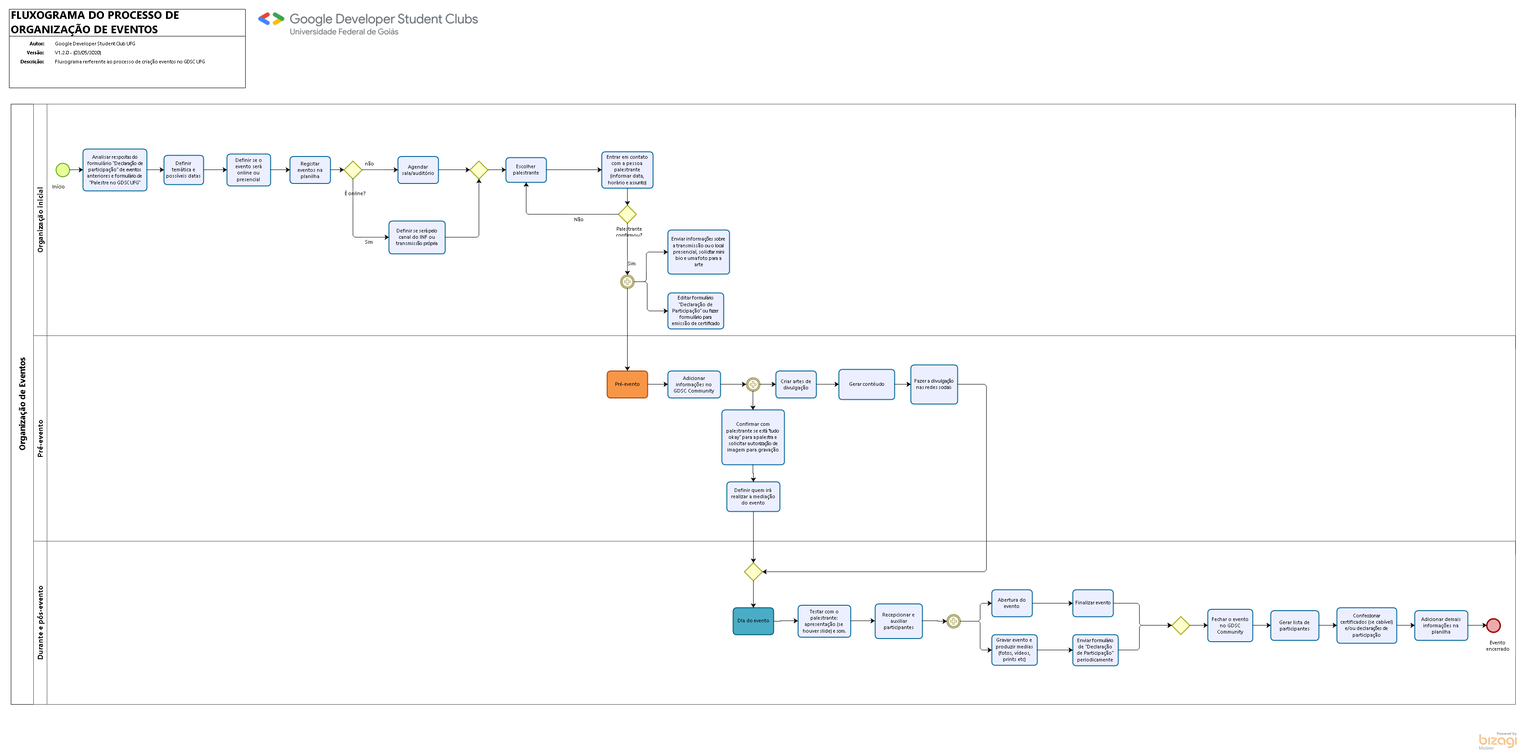
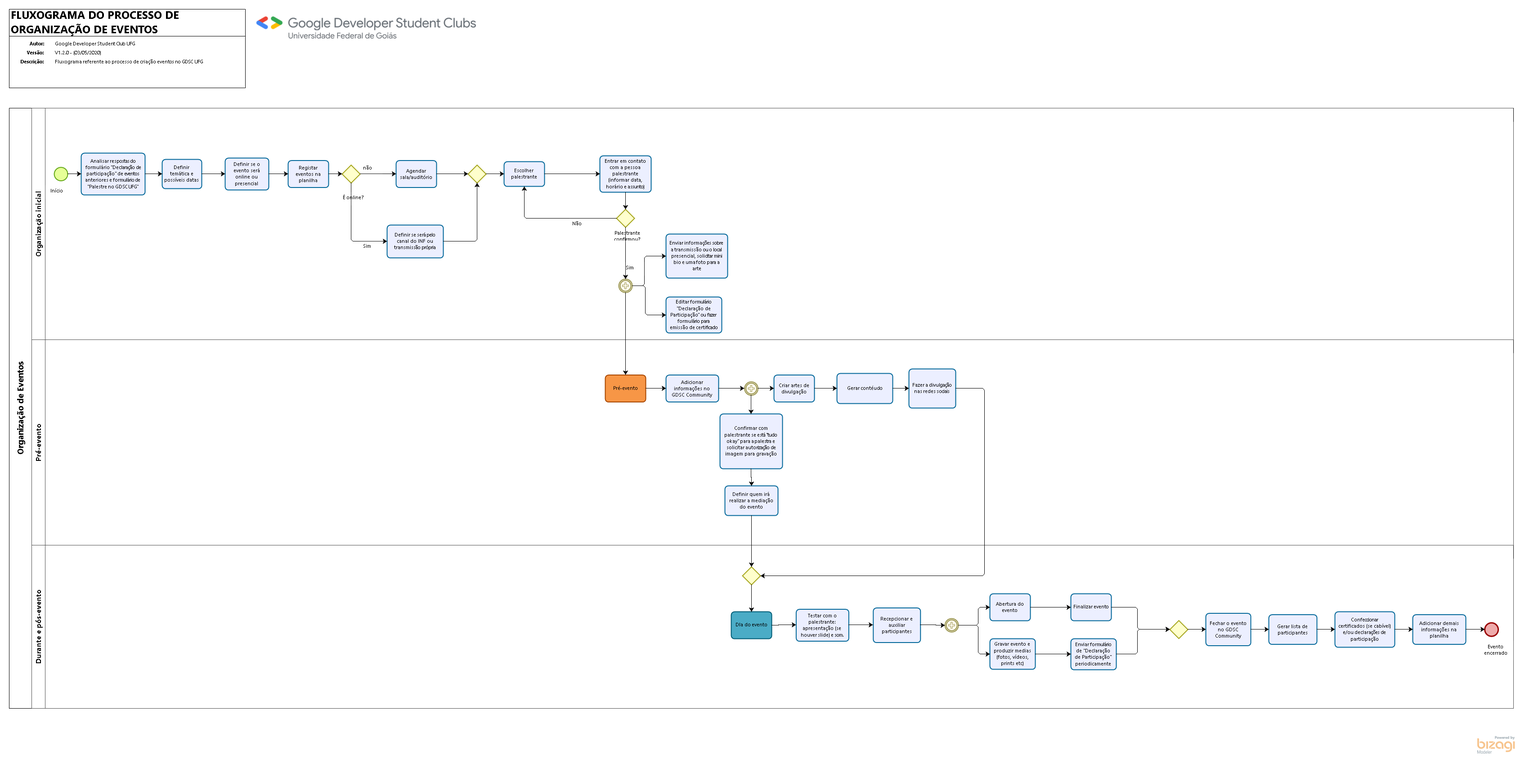
Fluxograma de eventos V1.2.0
Atualização da descrição.

diff --git a/libs/js/json/configuration.json.js b/libs/js/json/configuration.json.js
@@ -1,1 +1,1 @@
-Bizagi.AppModel = {"personalized":false,"userLogoName":"\\libs\\img\\biz-ex-logo.png","bizagiUrl":"http://www.bizagi.com","productName":"Bizagi Modeler","modelName":"Fluxograma - Processo de Organização de Eventos - GDSC UFG","publishDate":"05/05/2022 11:35:14","pages":[{"id":"a18e822c-980b-4733-bf18-c129ccd2122c","name":"FLUXOGRAMA DO PROCESSO DE ORGANIZAÇÃO DE EVENTOS","description":"<p style=\"text-align:left;text-indent:0pt;margin:0pt 0pt 0pt 0pt;\"><span style=\"color:#000000;background-color:transparent;font-family:Segoe UI;font-size:8pt;font-weight:normal;font-style:normal;\">Fluxograma rerferente ao processo de cria&ccedil;&atilde;o eventos no GDSC UFG</span></p>","mainProcessId":"3a2d51bf-4434-4797-b773-228e4b754161","version":"V1.2.0 - (03/05/2020)","author":"Google Developer Student Club UFG ","image":"files\\diagrams\\FLUXOGRAMA_DO_PROCESSO_DE_ORGANIZACAO_DE_EVENTOS.png","isSubprocessPage":false,"properties":[{"id":"299c509c-6c8f-4372-8b08-22bd9b4b3b29","name":"Créditos","value":"<p style=\"text-align:left;text-indent:0pt;margin:0pt 0pt 0pt 0pt;\"><span style=\"color:#000000;background-color:transparent;font-family:Segoe UI;font-size:8pt;font-weight:bold;font-style:normal;\">Fluxograma de organiza&ccedil;&atilde;o de eventos </span></p><p style=\"text-align:left;text-indent:0pt;margin:0pt 0pt 0pt 0pt;\"><span style=\"color:#000000;background-color:transparent;font-family:Segoe UI;font-size:8pt;font-weight:bold;font-style:normal;\">&nbsp;</span></p><p style=\"text-align:left;text-indent:0pt;margin:0pt 0pt 0pt 0pt;\"><span style=\"color:#000000;background-color:transparent;font-family:Segoe UI;font-size:8pt;font-weight:bold;font-style:normal;\">Coordenadores</span></p><p style=\"text-align:left;text-indent:0pt;margin:0pt 0pt 0pt 0pt;\"><span style=\"color:#000000;background-color:transparent;font-family:Segoe UI;font-size:8pt;font-weight:normal;font-style:normal;\">Gerente de Comunidade (Brasill: Amanda Mazini</span></p><p style=\"text-align:left;text-indent:0pt;margin:0pt 0pt 0pt 0pt;\"><span style=\"color:#000000;background-color:transparent;font-family:Segoe UI;font-size:8pt;font-weight:normal;font-style:normal;\">L&iacute;der Regional (Brasil): Rodrigo Akira </span></p><p style=\"text-align:left;text-indent:0pt;margin:0pt 0pt 0pt 0pt;\"><span style=\"color:#000000;background-color:transparent;font-family:Segoe UI;font-size:8pt;font-weight:normal;font-style:normal;\">&nbsp;</span></p><p style=\"text-align:left;text-indent:0pt;margin:0pt 0pt 0pt 0pt;\"><span style=\"color:#000000;background-color:transparent;font-family:Segoe UI;font-size:8pt;font-weight:normal;font-style:normal;\">&nbsp;</span></p><p style=\"text-align:left;text-indent:0pt;margin:0pt 0pt 0pt 0pt;\"><span style=\"color:#000000;background-color:transparent;font-family:Segoe UI;font-size:8pt;font-weight:bold;font-style:normal;\">Modelagem do fluxograma </span><span style=\"color:#000000;background-color:transparent;font-family:Segoe UI;font-size:8pt;font-weight:normal;font-style:normal;\"><br/>Lead DSC UFG 21-22: Wendel Marques de Jesus Souza<br/>Coordenadora/ membra: Joyce Beatriz Ferreira da Costa Silva</span></p><p style=\"text-align:left;text-indent:0pt;margin:0pt 0pt 0pt 0pt;\"><span style=\"color:#000000;background-color:transparent;font-family:Segoe UI;font-size:8pt;font-weight:normal;font-style:normal;\">&nbsp;</span></p>","type":"text"}],"elements":[{"id":"3a2d51bf-4434-4797-b773-228e4b754161","name":"Pools","description":"","elementImage":"files\\bpmnElements\\Participant.png","imageBounds":{"points":[{"x":-106.0,"y":21.0}],"radius":0.0,"height":0.0,"width":50.0,"shape":"rect"},"elementType":"Participant","properties":[],"pageElements":[{"id":"817bc4ca-ffaa-4745-b063-ad1da32bb218","name":"","elementImage":"files\\bpmnElements\\817bc4ca-ffaa-4745-b063-ad1da32bb218.png","imageBounds":{"points":[{"x":571.0,"y":20.0}],"radius":0.0,"height":83.0,"width":500.0,"shape":"rect"},"elementType":"ImageArtifact"}]},{"id":"63637863-3aeb-4244-8df0-c6cd756336bf","name":"Organização de Eventos","elementImage":"files\\bpmnElements\\Participant.png","imageBounds":{"points":[{"x":24.0,"y":231.0}],"radius":0.0,"height":1335.0,"width":50.0,"shape":"rect"},"elementType":"Participant","properties":[],"pageElements":[{"id":"47df1e19-601d-4ef3-90b1-ff47ab14fcf0","name":"Início ","elementImage":"files\\bpmnElements\\NoneStart.png","imageBounds":{"points":[{"x":124.0,"y":362.5}],"radius":15.0,"height":30.0,"width":30.0,"shape":"circle"},"elementType":"NoneStart"},{"id":"1e81309f-aa74-4dc2-bc64-4a7715f7cd66","name":"Palestrante confirmou?","elementImage":"files\\bpmnElements\\ExclusiveGateway.png","imageBounds":{"points":[{"x":1374.0,"y":456.0}],"radius":0.0,"height":40.0,"width":40.0,"shape":"poly"},"elementType":"ExclusiveGateway","properties":[],"pageElements":[{"name":"Não","elementType":"SequenceFlow","properties":[]},{"name":"Portão","elementType":"SequenceFlow","properties":[]}]},{"id":"3a34ce15-f2b8-4ef5-a41f-cd822f493618","name":"Criar artes de divulgação","elementImage":"files\\bpmnElements\\AbstractTask.png","imageBounds":{"points":[{"x":1724.0,"y":824.5}],"radius":0.0,"height":60.0,"width":90.0,"shape":"rect"},"elementType":"AbstractTask","properties":[]},{"id":"72ef1980-003a-4123-aabb-c78db7c5a618","name":"Gerar contéudo ","elementImage":"files\\bpmnElements\\AbstractTask.png","imageBounds":{"points":[{"x":1864.0,"y":821.0}],"radius":0.0,"height":67.0,"width":124.0,"shape":"rect"},"elementType":"AbstractTask","properties":[]},{"id":"d2af781b-8e4f-45ee-91cc-b02b6366bad0","name":"Fazer a divulgação nas redes sociais ","elementImage":"files\\bpmnElements\\AbstractTask.png","imageBounds":{"points":[{"x":2024.0,"y":811.0}],"radius":0.0,"height":87.0,"width":104.0,"shape":"rect"},"elementType":"AbstractTask","properties":[]},{"id":"84940166-02a5-43b1-a0c8-54ff68b21c77","name":"DIa do evento","elementImage":"files\\bpmnElements\\AbstractTask.png","imageBounds":{"points":[{"x":1629.0,"y":1351.0}],"radius":0.0,"height":60.0,"width":90.0,"shape":"rect"},"elementType":"AbstractTask","properties":[]},{"id":"218f1a85-8564-4cc2-838a-c2329342e110","name":"Testar com o palestrante: apresentação (se houver slide) e som.\u2028","elementImage":"files\\bpmnElements\\AbstractTask.png","imageBounds":{"points":[{"x":1773.33337,"y":1345.5}],"radius":0.0,"height":71.0,"width":117.0,"shape":"rect"},"elementType":"AbstractTask","properties":[]},{"id":"c8029953-aebd-4dc1-900e-375bc9f9cdca","name":"Abertura do evento","elementImage":"files\\bpmnElements\\AbstractTask.png","imageBounds":{"points":[{"x":2204.0,"y":1311.0}],"radius":0.0,"height":60.0,"width":90.0,"shape":"rect"},"elementType":"AbstractTask","properties":[]},{"id":"924a9cce-34ed-4072-aa1b-41fb433a086e","name":"Finalizar evento","elementImage":"files\\bpmnElements\\AbstractTask.png","imageBounds":{"points":[{"x":2384.0,"y":1311.0}],"radius":0.0,"height":60.0,"width":90.0,"shape":"rect"},"elementType":"AbstractTask","properties":[]},{"id":"415551f6-a8f5-4c26-bdcf-3e80b6ecb0d7","name":"Escolher palestrante","elementImage":"files\\bpmnElements\\AbstractTask.png","imageBounds":{"points":[{"x":1124.0,"y":350.0}],"radius":0.0,"height":55.0,"width":90.0,"shape":"rect"},"elementType":"AbstractTask","properties":[]},{"id":"bafd64de-f54f-4bec-9e07-d5a30dd64f11","name":"Definir temática e possíveis datas","elementImage":"files\\bpmnElements\\AbstractTask.png","imageBounds":{"points":[{"x":364.0,"y":345.0}],"radius":0.0,"height":65.0,"width":88.0,"shape":"rect"},"elementType":"AbstractTask","properties":[]},{"id":"4c6b3754-e87e-4f2c-8338-1fa1d308fafa","name":"Analisar respostas \u2028do formulário \"Declaração de participação\" de eventos anteriores e formulário de \"Palestre no GDSC UFG\"","elementImage":"files\\bpmnElements\\AbstractTask.png","imageBounds":{"points":[{"x":184.0,"y":331.0}],"radius":0.0,"height":93.0,"width":142.0,"shape":"rect"},"elementType":"AbstractTask","properties":[]},{"id":"4eff2117-6ea3-4d76-b465-3bd18b9b0b28","name":"Editar formulário \"Declaração de Participação\" ou fazer formulário para emissão de certificado","elementImage":"files\\bpmnElements\\AbstractTask.png","imageBounds":{"points":[{"x":1484.0,"y":651.0}],"radius":0.0,"height":80.0,"width":124.0,"shape":"rect"},"elementType":"AbstractTask","properties":[]},{"id":"a938959f-fd64-4fbc-ad83-974b25f81ffc","name":"Entrar em contato com a pessoa palestrante (informar data, horário e assunto)  ","elementImage":"files\\bpmnElements\\AbstractTask.png","imageBounds":{"points":[{"x":1337.0,"y":337.0}],"radius":0.0,"height":81.0,"width":114.0,"shape":"rect"},"elementType":"AbstractTask","properties":[]},{"id":"58011b2b-63d2-4039-a728-7692becf0f65","name":"Definir se será pelo canal do INF ou transmissão própria ","elementImage":"files\\bpmnElements\\AbstractTask.png","imageBounds":{"points":[{"x":864.0,"y":491.0}],"radius":0.0,"height":73.0,"width":125.0,"shape":"rect"},"elementType":"AbstractTask","properties":[]},{"id":"21ccdcb6-0272-46d1-acbc-b7c113a00b72","name":"Definir se o evento será online ou presencial","elementImage":"files\\bpmnElements\\AbstractTask.png","imageBounds":{"points":[{"x":504.0,"y":342.0}],"radius":0.0,"height":71.0,"width":97.0,"shape":"rect"},"elementType":"AbstractTask","properties":[]},{"id":"46405d63-0796-463f-a940-5814d427ab43","name":"Agendar sala/auditório","elementImage":"files\\bpmnElements\\AbstractTask.png","imageBounds":{"points":[{"x":884.0,"y":347.5}],"radius":0.0,"height":60.0,"width":90.0,"shape":"rect"},"elementType":"AbstractTask","properties":[]},{"id":"6f59f099-8288-4a2c-a72a-13d2b930b317","name":"Enviar informações sobre a transmissão ou o local presencial, solicitar mini bio e uma foto para a arte","elementImage":"files\\bpmnElements\\AbstractTask.png","imageBounds":{"points":[{"x":1484.0,"y":511.0}],"radius":0.0,"height":98.0,"width":137.0,"shape":"rect"},"elementType":"AbstractTask","properties":[]},{"id":"169f1e46-ff3d-496f-89b7-e687b40bc126","name":"Pré-evento","elementImage":"files\\bpmnElements\\AbstractTask.png","imageBounds":{"points":[{"x":1349.0,"y":824.5}],"radius":0.0,"height":60.0,"width":90.0,"shape":"rect"},"elementType":"AbstractTask","properties":[]},{"id":"c5bd312d-2ffa-437b-976f-a7a53c93a122","name":"Adicionar informações no GDSC Community","elementImage":"files\\bpmnElements\\AbstractTask.png","imageBounds":{"points":[{"x":1484.0,"y":824.5}],"radius":0.0,"height":60.0,"width":117.0,"shape":"rect"},"elementType":"AbstractTask","properties":[]},{"id":"8d897176-1707-469b-b893-ecc185b1deb0","name":"Event","elementImage":"files\\bpmnElements\\ParallelMultipleIntermediate.png","imageBounds":{"points":[{"x":1658.5,"y":839.5}],"radius":15.0,"height":30.0,"width":30.0,"shape":"circle"},"elementType":"ParallelMultipleIntermediate"},{"id":"52b370c1-5780-4036-a98a-9ae37d5d3410","name":"Confirmar com palestrante se está \"tudo okay\" para a palestra e solicitar autorização de imagem para gravação","elementImage":"files\\bpmnElements\\AbstractTask.png","imageBounds":{"points":[{"x":1604.0,"y":911.0}],"radius":0.0,"height":122.0,"width":139.0,"shape":"rect"},"elementType":"AbstractTask","properties":[]},{"id":"5ff35ba7-e36f-42e5-9052-3108910df475","name":"Definir quem irá realizar a mediação do evento","elementImage":"files\\bpmnElements\\AbstractTask.png","imageBounds":{"points":[{"x":1615.0,"y":1071.0}],"radius":0.0,"height":66.0,"width":118.0,"shape":"rect"},"elementType":"AbstractTask","properties":[]},{"id":"89fea6ce-3293-435b-849f-7ae4b9c4d047","name":"Gateway","elementImage":"files\\bpmnElements\\ExclusiveGateway.png","imageBounds":{"points":[{"x":1654.0,"y":1251.0}],"radius":0.0,"height":40.0,"width":40.0,"shape":"poly"},"elementType":"ExclusiveGateway","properties":[],"pageElements":[{"name":"DIa do evento","elementType":"SequenceFlow","properties":[]}]},{"id":"b8457e35-4107-4005-994e-23d85d41c19b","name":"Recepcionar e auxiliar  participantes ","elementImage":"files\\bpmnElements\\AbstractTask.png","imageBounds":{"points":[{"x":1944.66675,"y":1342.5}],"radius":0.0,"height":77.0,"width":105.0,"shape":"rect"},"elementType":"AbstractTask","properties":[]},{"id":"046d0109-ed4a-40a2-a883-e3212c46d4b6","name":"Event","elementImage":"files\\bpmnElements\\ParallelMultipleIntermediate.png","imageBounds":{"points":[{"x":2104.0,"y":1366.0}],"radius":15.0,"height":30.0,"width":30.0,"shape":"circle"},"elementType":"ParallelMultipleIntermediate"},{"id":"20e77287-c8e8-4d3c-a121-3cc9188b440e","name":"Gravar evento e produzir medias (fotos, vídeos, prints etc)","elementImage":"files\\bpmnElements\\AbstractTask.png","imageBounds":{"points":[{"x":2204.0,"y":1411.0}],"radius":0.0,"height":68.0,"width":101.0,"shape":"rect"},"elementType":"AbstractTask","properties":[]},{"id":"9e2ae936-06d1-457c-b572-79ed3616c806","name":"Gateway","elementImage":"files\\bpmnElements\\ExclusiveGateway.png","imageBounds":{"points":[{"x":2604.0,"y":1370.5}],"radius":0.0,"height":40.0,"width":40.0,"shape":"poly"},"elementType":"ExclusiveGateway","properties":[],"pageElements":[{"name":"Fechar o evento no GDSC Community","elementType":"SequenceFlow","properties":[]}]},{"id":"977ea307-b61e-42f4-9ae7-c24f7583915d","name":"Fechar o evento no GDSC Community","elementImage":"files\\bpmnElements\\AbstractTask.png","imageBounds":{"points":[{"x":2684.0,"y":1354.5}],"radius":0.0,"height":72.0,"width":100.0,"shape":"rect"},"elementType":"AbstractTask","properties":[]},{"id":"465b5f33-4921-44ff-8e08-d8c1798df62e","name":"Gerar lista de participantes","elementImage":"files\\bpmnElements\\AbstractTask.png","imageBounds":{"points":[{"x":2824.0,"y":1357.5}],"radius":0.0,"height":66.0,"width":107.0,"shape":"rect"},"elementType":"AbstractTask","properties":[]},{"id":"0e9800a7-3fe8-44ce-ad63-b101298927f2","name":"Confeccionar certificados (se cabível) e/ou declarações de participação","elementImage":"files\\bpmnElements\\AbstractTask.png","imageBounds":{"points":[{"x":2971.0,"y":1351.0}],"radius":0.0,"height":79.0,"width":133.0,"shape":"rect"},"elementType":"AbstractTask","properties":[]},{"id":"b1d8159d-0005-4922-82f7-08068b007ca0","name":"Enviar formulário de \"Declaração de Participação\" periodicamente","elementImage":"files\\bpmnElements\\AbstractTask.png","imageBounds":{"points":[{"x":2384.0,"y":1411.0}],"radius":0.0,"height":69.0,"width":101.0,"shape":"rect"},"elementType":"AbstractTask","properties":[]},{"id":"8b1e8711-cfee-4f82-9500-7b924d607190","name":"Registar eventos na planilha","elementImage":"files\\bpmnElements\\AbstractTask.png","imageBounds":{"points":[{"x":644.0,"y":347.5}],"radius":0.0,"height":60.0,"width":90.0,"shape":"rect"},"elementType":"AbstractTask","properties":[]},{"id":"50fadbe8-8615-431b-837b-29fa80b49442","name":"É online?","elementImage":"files\\bpmnElements\\ExclusiveGateway.png","imageBounds":{"points":[{"x":764.0,"y":357.5}],"radius":0.0,"height":40.0,"width":40.0,"shape":"poly"},"elementType":"ExclusiveGateway","properties":[],"pageElements":[{"name":"Sim","elementType":"SequenceFlow","properties":[]},{"name":"não","elementType":"SequenceFlow","properties":[]}]},{"id":"84b7a6e5-8db5-4190-8dd3-00b094716081","name":"Evento encerrado","elementImage":"files\\bpmnElements\\NoneEnd.png","imageBounds":{"points":[{"x":3304.0,"y":1375.5}],"radius":15.0,"height":30.0,"width":30.0,"shape":"circle"},"elementType":"NoneEnd"},{"id":"807d06bb-0dfc-4076-8773-bcdb30be0379","name":"Gateway","elementImage":"files\\bpmnElements\\ExclusiveGateway.png","imageBounds":{"points":[{"x":1044.0,"y":357.5}],"radius":0.0,"height":40.0,"width":40.0,"shape":"poly"},"elementType":"ExclusiveGateway","properties":[],"pageElements":[{"name":"Escolher palestrante","elementType":"SequenceFlow","properties":[]}]},{"id":"c948556f-343b-4bba-8450-3244072eb73e","name":"Event","elementImage":"files\\bpmnElements\\ParallelMultipleIntermediate.png","imageBounds":{"points":[{"x":1379.0,"y":611.0}],"radius":15.0,"height":30.0,"width":30.0,"shape":"circle"},"elementType":"ParallelMultipleIntermediate"},{"id":"f056d9ef-e804-4aa4-80cc-996dbf0a7e70","name":"Adicionar demais informações na planilha","elementImage":"files\\bpmnElements\\AbstractTask.png","imageBounds":{"points":[{"x":3144.0,"y":1357.5}],"radius":0.0,"height":66.0,"width":118.0,"shape":"rect"},"elementType":"AbstractTask","properties":[]},{"id":"c2959464-d677-49df-a8b4-abf7dfd8b450","name":"Organização inicial","elementImage":"files\\bpmnElements\\Lane.png","imageBounds":{"points":[{"x":74.0,"y":231.0}],"radius":0.0,"height":515.0,"width":30.0,"shape":"rect"},"elementType":"Lane"},{"id":"e1af7d50-044c-46cb-b8a3-2e258e782535","name":"Pré-evento","elementImage":"files\\bpmnElements\\Lane.png","imageBounds":{"points":[{"x":74.0,"y":746.0}],"radius":0.0,"height":457.0,"width":30.0,"shape":"rect"},"elementType":"Lane"},{"id":"52b07a4e-0b62-4ce0-aa86-2274d84c365d","name":"Durante e pós-evento","elementImage":"files\\bpmnElements\\Lane.png","imageBounds":{"points":[{"x":74.0,"y":1203.0}],"radius":0.0,"height":363.0,"width":30.0,"shape":"rect"},"elementType":"Lane"}]}]}],"texts":{"tableOfContents":"Índice","pageNumber":"Página","pageNumberLabelOf":"de","version":"Versão","author":"Autor","description":"Descrição","mainPool":"Processo principal","mainPoolDescription":"Processo principal Descrição","processDiagrams":"Processar os Diagramas","processElements":"Elementos do processo","elements":"Elementos do processo","defaultElementName":"Elemento","performers":"Executantes","connectors":"Conectores","connector":"Conector","home":"Principal","search":"Pesquisar","goToParentProcess":"<< Ir para Matriz","visitBizagi":"Visite bizagi.com","contains":"Contém {0} subprocessos","showAll":"Show all","fullScreen":"Tela inteira","zoomIn":"Ampliar","zoomOut":"Reduzir","close":"Fechar","menu":"Menu: ","errorPage":"Erro ao visualizar a página","process":"Proceso","subProcess":"Subprocessos publicados","contain":"Contém","checkAttributes":"Ver atributos","checkOverview":"Ver resumo","unavailableResource":"O recurso não está disponível","localResource":"O recurso pode ser acessado localmente","performer":"Executor","linktoimage":"Link para a  imagem","presentationAction":"Ações de apresentação","searchGlobal":"Busca todos","searchLocal":"Busca neste processo","searchResults":"Nenhum resultado encontrado","titlePage":"Start","emptyElement":"Este elemento ainda não foi documentado","unsupported":"Seu navegador não suporta conteúdo exibido por esta página. <br> Recomendamos que você atualizar o seu navegador.","details":"Detalhes","expand":"Expandir","mainPoolProperties":"Propriedades do Processo principal","cannotVisualize":"The page cannot be displayed","resourceNotFound":"The requested resource was not found:","applyTheme":"Applying new theme"},"searchMap":[{"containerId":"a18e822c-980b-4733-bf18-c129ccd2122c","containerName":"FLUXOGRAMA DO PROCESSO DE ORGANIZAÇÃO DE EVENTOS","isSubprocess":false,"elements":[{"id":"817bc4ca-ffaa-4745-b063-ad1da32bb218"},{"id":"806c10ba-ada0-41f9-a176-27f877548cc6"},{"id":"63637863-3aeb-4244-8df0-c6cd756336bf","value":"Organização de Eventos"},{"id":"c2959464-d677-49df-a8b4-abf7dfd8b450","value":"Organização inicial"},{"id":"e1af7d50-044c-46cb-b8a3-2e258e782535","value":"Pré-evento"},{"id":"52b07a4e-0b62-4ce0-aa86-2274d84c365d","value":"Durante e pós-evento"},{"id":"47df1e19-601d-4ef3-90b1-ff47ab14fcf0","value":"Início "},{"id":"1e81309f-aa74-4dc2-bc64-4a7715f7cd66","value":"Palestrante confirmou?"},{"id":"3a34ce15-f2b8-4ef5-a41f-cd822f493618","value":"Criar artes de divulgação"},{"id":"72ef1980-003a-4123-aabb-c78db7c5a618","value":"Gerar contéudo "},{"id":"d2af781b-8e4f-45ee-91cc-b02b6366bad0","value":"Fazer a divulgação nas redes sociais "},{"id":"84940166-02a5-43b1-a0c8-54ff68b21c77","value":"DIa do evento"},{"id":"218f1a85-8564-4cc2-838a-c2329342e110","value":"Testar com o palestrante: apresentação (se houver slide) e som.\u2028"},{"id":"c8029953-aebd-4dc1-900e-375bc9f9cdca","value":"Abertura do evento"},{"id":"924a9cce-34ed-4072-aa1b-41fb433a086e","value":"Finalizar evento"},{"id":"415551f6-a8f5-4c26-bdcf-3e80b6ecb0d7","value":"Escolher palestrante"},{"id":"bafd64de-f54f-4bec-9e07-d5a30dd64f11","value":"Definir temática e possíveis datas"},{"id":"4c6b3754-e87e-4f2c-8338-1fa1d308fafa","value":"Analisar respostas \u2028do formulário \"Declaração de participação\" de eventos anteriores e formulário de \"Palestre no GDSC UFG\""},{"id":"4eff2117-6ea3-4d76-b465-3bd18b9b0b28","value":"Editar formulário \"Declaração de Participação\" ou fazer formulário para emissão de certificado"},{"id":"a938959f-fd64-4fbc-ad83-974b25f81ffc","value":"Entrar em contato com a pessoa palestrante (informar data, horário e assunto)  "},{"id":"58011b2b-63d2-4039-a728-7692becf0f65","value":"Definir se será pelo canal do INF ou transmissão própria "},{"id":"21ccdcb6-0272-46d1-acbc-b7c113a00b72","value":"Definir se o evento será online ou presencial"},{"id":"46405d63-0796-463f-a940-5814d427ab43","value":"Agendar sala/auditório"},{"id":"6f59f099-8288-4a2c-a72a-13d2b930b317","value":"Enviar informações sobre a transmissão ou o local presencial, solicitar mini bio e uma foto para a arte"},{"id":"169f1e46-ff3d-496f-89b7-e687b40bc126","value":"Pré-evento"},{"id":"c5bd312d-2ffa-437b-976f-a7a53c93a122","value":"Adicionar informações no GDSC Community"},{"id":"8d897176-1707-469b-b893-ecc185b1deb0","value":""},{"id":"52b370c1-5780-4036-a98a-9ae37d5d3410","value":"Confirmar com palestrante se está \"tudo okay\" para a palestra e solicitar autorização de imagem para gravação"},{"id":"5ff35ba7-e36f-42e5-9052-3108910df475","value":"Definir quem irá realizar a mediação do evento"},{"id":"89fea6ce-3293-435b-849f-7ae4b9c4d047","value":""},{"id":"b8457e35-4107-4005-994e-23d85d41c19b","value":"Recepcionar e auxiliar  participantes "},{"id":"046d0109-ed4a-40a2-a883-e3212c46d4b6","value":""},{"id":"20e77287-c8e8-4d3c-a121-3cc9188b440e","value":"Gravar evento e produzir medias (fotos, vídeos, prints etc)"},{"id":"9e2ae936-06d1-457c-b572-79ed3616c806","value":""},{"id":"977ea307-b61e-42f4-9ae7-c24f7583915d","value":"Fechar o evento no GDSC Community"},{"id":"465b5f33-4921-44ff-8e08-d8c1798df62e","value":"Gerar lista de participantes"},{"id":"0e9800a7-3fe8-44ce-ad63-b101298927f2","value":"Confeccionar certificados (se cabível) e/ou declarações de participação"},{"id":"b1d8159d-0005-4922-82f7-08068b007ca0","value":"Enviar formulário de \"Declaração de Participação\" periodicamente"},{"id":"8b1e8711-cfee-4f82-9500-7b924d607190","value":"Registar eventos na planilha"},{"id":"50fadbe8-8615-431b-837b-29fa80b49442","value":"É online?"},{"id":"84b7a6e5-8db5-4190-8dd3-00b094716081","value":"Evento encerrado"},{"id":"807d06bb-0dfc-4076-8773-bcdb30be0379","value":""},{"id":"c948556f-343b-4bba-8450-3244072eb73e","value":""},{"id":"f056d9ef-e804-4aa4-80cc-996dbf0a7e70","value":"Adicionar demais informações na planilha"}]}]}
+Bizagi.AppModel = {"personalized":false,"userLogoName":"\\libs\\img\\biz-ex-logo.png","bizagiUrl":"http://www.bizagi.com","productName":"Bizagi Modeler","modelName":"Fluxograma - Processo de Organização de Eventos - GDSC UFG","publishDate":"05/05/2022 11:36:35","pages":[{"id":"a18e822c-980b-4733-bf18-c129ccd2122c","name":"FLUXOGRAMA DO PROCESSO DE ORGANIZAÇÃO DE EVENTOS","description":"<p style=\"text-align:left;text-indent:0pt;margin:0pt 0pt 0pt 0pt;\"><span style=\"color:#000000;background-color:transparent;font-family:Segoe UI;font-size:8pt;font-weight:normal;font-style:normal;\">Fluxograma referente ao processo de cria&ccedil;&atilde;o eventos no GDSC UFG</span></p>","mainProcessId":"3a2d51bf-4434-4797-b773-228e4b754161","version":"V1.2.0 - (03/05/2020)","author":"Google Developer Student Club UFG ","image":"files\\diagrams\\FLUXOGRAMA_DO_PROCESSO_DE_ORGANIZACAO_DE_EVENTOS.png","isSubprocessPage":false,"properties":[{"id":"299c509c-6c8f-4372-8b08-22bd9b4b3b29","name":"Créditos","value":"<p style=\"text-align:left;text-indent:0pt;margin:0pt 0pt 0pt 0pt;\"><span style=\"color:#000000;background-color:transparent;font-family:Segoe UI;font-size:8pt;font-weight:bold;font-style:normal;\">Fluxograma de organiza&ccedil;&atilde;o de eventos </span></p><p style=\"text-align:left;text-indent:0pt;margin:0pt 0pt 0pt 0pt;\"><span style=\"color:#000000;background-color:transparent;font-family:Segoe UI;font-size:8pt;font-weight:bold;font-style:normal;\">&nbsp;</span></p><p style=\"text-align:left;text-indent:0pt;margin:0pt 0pt 0pt 0pt;\"><span style=\"color:#000000;background-color:transparent;font-family:Segoe UI;font-size:8pt;font-weight:bold;font-style:normal;\">Coordenadores</span></p><p style=\"text-align:left;text-indent:0pt;margin:0pt 0pt 0pt 0pt;\"><span style=\"color:#000000;background-color:transparent;font-family:Segoe UI;font-size:8pt;font-weight:normal;font-style:normal;\">Gerente de Comunidade (Brasill: Amanda Mazini</span></p><p style=\"text-align:left;text-indent:0pt;margin:0pt 0pt 0pt 0pt;\"><span style=\"color:#000000;background-color:transparent;font-family:Segoe UI;font-size:8pt;font-weight:normal;font-style:normal;\">L&iacute;der Regional (Brasil): Rodrigo Akira </span></p><p style=\"text-align:left;text-indent:0pt;margin:0pt 0pt 0pt 0pt;\"><span style=\"color:#000000;background-color:transparent;font-family:Segoe UI;font-size:8pt;font-weight:normal;font-style:normal;\">&nbsp;</span></p><p style=\"text-align:left;text-indent:0pt;margin:0pt 0pt 0pt 0pt;\"><span style=\"color:#000000;background-color:transparent;font-family:Segoe UI;font-size:8pt;font-weight:normal;font-style:normal;\">&nbsp;</span></p><p style=\"text-align:left;text-indent:0pt;margin:0pt 0pt 0pt 0pt;\"><span style=\"color:#000000;background-color:transparent;font-family:Segoe UI;font-size:8pt;font-weight:bold;font-style:normal;\">Modelagem do fluxograma </span><span style=\"color:#000000;background-color:transparent;font-family:Segoe UI;font-size:8pt;font-weight:normal;font-style:normal;\"><br/>Lead DSC UFG 21-22: Wendel Marques de Jesus Souza<br/>Coordenadora/ membra: Joyce Beatriz Ferreira da Costa Silva</span></p><p style=\"text-align:left;text-indent:0pt;margin:0pt 0pt 0pt 0pt;\"><span style=\"color:#000000;background-color:transparent;font-family:Segoe UI;font-size:8pt;font-weight:normal;font-style:normal;\">&nbsp;</span></p>","type":"text"}],"elements":[{"id":"3a2d51bf-4434-4797-b773-228e4b754161","name":"Pools","description":"","elementImage":"files\\bpmnElements\\Participant.png","imageBounds":{"points":[{"x":-110.0,"y":30.0}],"radius":0.0,"height":0.0,"width":50.0,"shape":"rect"},"elementType":"Participant","properties":[],"pageElements":[{"id":"817bc4ca-ffaa-4745-b063-ad1da32bb218","name":"","elementImage":"files\\bpmnElements\\817bc4ca-ffaa-4745-b063-ad1da32bb218.png","imageBounds":{"points":[{"x":567.0,"y":29.0}],"radius":0.0,"height":83.0,"width":500.0,"shape":"rect"},"elementType":"ImageArtifact"}]},{"id":"63637863-3aeb-4244-8df0-c6cd756336bf","name":"Organização de Eventos","elementImage":"files\\bpmnElements\\Participant.png","imageBounds":{"points":[{"x":20.0,"y":240.0}],"radius":0.0,"height":1335.0,"width":50.0,"shape":"rect"},"elementType":"Participant","properties":[],"pageElements":[{"id":"47df1e19-601d-4ef3-90b1-ff47ab14fcf0","name":"Início ","elementImage":"files\\bpmnElements\\NoneStart.png","imageBounds":{"points":[{"x":120.0,"y":371.5}],"radius":15.0,"height":30.0,"width":30.0,"shape":"circle"},"elementType":"NoneStart"},{"id":"1e81309f-aa74-4dc2-bc64-4a7715f7cd66","name":"Palestrante confirmou?","elementImage":"files\\bpmnElements\\ExclusiveGateway.png","imageBounds":{"points":[{"x":1370.0,"y":465.0}],"radius":0.0,"height":40.0,"width":40.0,"shape":"poly"},"elementType":"ExclusiveGateway","properties":[],"pageElements":[{"name":"Não","elementType":"SequenceFlow","properties":[]},{"name":"Portão","elementType":"SequenceFlow","properties":[]}]},{"id":"3a34ce15-f2b8-4ef5-a41f-cd822f493618","name":"Criar artes de divulgação","elementImage":"files\\bpmnElements\\AbstractTask.png","imageBounds":{"points":[{"x":1720.0,"y":833.5}],"radius":0.0,"height":60.0,"width":90.0,"shape":"rect"},"elementType":"AbstractTask","properties":[]},{"id":"72ef1980-003a-4123-aabb-c78db7c5a618","name":"Gerar contéudo ","elementImage":"files\\bpmnElements\\AbstractTask.png","imageBounds":{"points":[{"x":1860.0,"y":830.0}],"radius":0.0,"height":67.0,"width":124.0,"shape":"rect"},"elementType":"AbstractTask","properties":[]},{"id":"d2af781b-8e4f-45ee-91cc-b02b6366bad0","name":"Fazer a divulgação nas redes sociais ","elementImage":"files\\bpmnElements\\AbstractTask.png","imageBounds":{"points":[{"x":2020.0,"y":820.0}],"radius":0.0,"height":87.0,"width":104.0,"shape":"rect"},"elementType":"AbstractTask","properties":[]},{"id":"84940166-02a5-43b1-a0c8-54ff68b21c77","name":"DIa do evento","elementImage":"files\\bpmnElements\\AbstractTask.png","imageBounds":{"points":[{"x":1625.0,"y":1360.0}],"radius":0.0,"height":60.0,"width":90.0,"shape":"rect"},"elementType":"AbstractTask","properties":[]},{"id":"218f1a85-8564-4cc2-838a-c2329342e110","name":"Testar com o palestrante: apresentação (se houver slide) e som.\u2028","elementImage":"files\\bpmnElements\\AbstractTask.png","imageBounds":{"points":[{"x":1769.33337,"y":1354.5}],"radius":0.0,"height":71.0,"width":117.0,"shape":"rect"},"elementType":"AbstractTask","properties":[]},{"id":"c8029953-aebd-4dc1-900e-375bc9f9cdca","name":"Abertura do evento","elementImage":"files\\bpmnElements\\AbstractTask.png","imageBounds":{"points":[{"x":2200.0,"y":1320.0}],"radius":0.0,"height":60.0,"width":90.0,"shape":"rect"},"elementType":"AbstractTask","properties":[]},{"id":"924a9cce-34ed-4072-aa1b-41fb433a086e","name":"Finalizar evento","elementImage":"files\\bpmnElements\\AbstractTask.png","imageBounds":{"points":[{"x":2380.0,"y":1320.0}],"radius":0.0,"height":60.0,"width":90.0,"shape":"rect"},"elementType":"AbstractTask","properties":[]},{"id":"415551f6-a8f5-4c26-bdcf-3e80b6ecb0d7","name":"Escolher palestrante","elementImage":"files\\bpmnElements\\AbstractTask.png","imageBounds":{"points":[{"x":1120.0,"y":359.0}],"radius":0.0,"height":55.0,"width":90.0,"shape":"rect"},"elementType":"AbstractTask","properties":[]},{"id":"bafd64de-f54f-4bec-9e07-d5a30dd64f11","name":"Definir temática e possíveis datas","elementImage":"files\\bpmnElements\\AbstractTask.png","imageBounds":{"points":[{"x":360.0,"y":354.0}],"radius":0.0,"height":65.0,"width":88.0,"shape":"rect"},"elementType":"AbstractTask","properties":[]},{"id":"4c6b3754-e87e-4f2c-8338-1fa1d308fafa","name":"Analisar respostas \u2028do formulário \"Declaração de participação\" de eventos anteriores e formulário de \"Palestre no GDSC UFG\"","elementImage":"files\\bpmnElements\\AbstractTask.png","imageBounds":{"points":[{"x":180.0,"y":340.0}],"radius":0.0,"height":93.0,"width":142.0,"shape":"rect"},"elementType":"AbstractTask","properties":[]},{"id":"4eff2117-6ea3-4d76-b465-3bd18b9b0b28","name":"Editar formulário \"Declaração de Participação\" ou fazer formulário para emissão de certificado","elementImage":"files\\bpmnElements\\AbstractTask.png","imageBounds":{"points":[{"x":1480.0,"y":660.0}],"radius":0.0,"height":80.0,"width":124.0,"shape":"rect"},"elementType":"AbstractTask","properties":[]},{"id":"a938959f-fd64-4fbc-ad83-974b25f81ffc","name":"Entrar em contato com a pessoa palestrante (informar data, horário e assunto)  ","elementImage":"files\\bpmnElements\\AbstractTask.png","imageBounds":{"points":[{"x":1333.0,"y":346.0}],"radius":0.0,"height":81.0,"width":114.0,"shape":"rect"},"elementType":"AbstractTask","properties":[]},{"id":"58011b2b-63d2-4039-a728-7692becf0f65","name":"Definir se será pelo canal do INF ou transmissão própria ","elementImage":"files\\bpmnElements\\AbstractTask.png","imageBounds":{"points":[{"x":860.0,"y":500.0}],"radius":0.0,"height":73.0,"width":125.0,"shape":"rect"},"elementType":"AbstractTask","properties":[]},{"id":"21ccdcb6-0272-46d1-acbc-b7c113a00b72","name":"Definir se o evento será online ou presencial","elementImage":"files\\bpmnElements\\AbstractTask.png","imageBounds":{"points":[{"x":500.0,"y":351.0}],"radius":0.0,"height":71.0,"width":97.0,"shape":"rect"},"elementType":"AbstractTask","properties":[]},{"id":"46405d63-0796-463f-a940-5814d427ab43","name":"Agendar sala/auditório","elementImage":"files\\bpmnElements\\AbstractTask.png","imageBounds":{"points":[{"x":880.0,"y":356.5}],"radius":0.0,"height":60.0,"width":90.0,"shape":"rect"},"elementType":"AbstractTask","properties":[]},{"id":"6f59f099-8288-4a2c-a72a-13d2b930b317","name":"Enviar informações sobre a transmissão ou o local presencial, solicitar mini bio e uma foto para a arte","elementImage":"files\\bpmnElements\\AbstractTask.png","imageBounds":{"points":[{"x":1480.0,"y":520.0}],"radius":0.0,"height":98.0,"width":137.0,"shape":"rect"},"elementType":"AbstractTask","properties":[]},{"id":"169f1e46-ff3d-496f-89b7-e687b40bc126","name":"Pré-evento","elementImage":"files\\bpmnElements\\AbstractTask.png","imageBounds":{"points":[{"x":1345.0,"y":833.5}],"radius":0.0,"height":60.0,"width":90.0,"shape":"rect"},"elementType":"AbstractTask","properties":[]},{"id":"c5bd312d-2ffa-437b-976f-a7a53c93a122","name":"Adicionar informações no GDSC Community","elementImage":"files\\bpmnElements\\AbstractTask.png","imageBounds":{"points":[{"x":1480.0,"y":833.5}],"radius":0.0,"height":60.0,"width":117.0,"shape":"rect"},"elementType":"AbstractTask","properties":[]},{"id":"8d897176-1707-469b-b893-ecc185b1deb0","name":"Event","elementImage":"files\\bpmnElements\\ParallelMultipleIntermediate.png","imageBounds":{"points":[{"x":1654.5,"y":848.5}],"radius":15.0,"height":30.0,"width":30.0,"shape":"circle"},"elementType":"ParallelMultipleIntermediate"},{"id":"52b370c1-5780-4036-a98a-9ae37d5d3410","name":"Confirmar com palestrante se está \"tudo okay\" para a palestra e solicitar autorização de imagem para gravação","elementImage":"files\\bpmnElements\\AbstractTask.png","imageBounds":{"points":[{"x":1600.0,"y":920.0}],"radius":0.0,"height":122.0,"width":139.0,"shape":"rect"},"elementType":"AbstractTask","properties":[]},{"id":"5ff35ba7-e36f-42e5-9052-3108910df475","name":"Definir quem irá realizar a mediação do evento","elementImage":"files\\bpmnElements\\AbstractTask.png","imageBounds":{"points":[{"x":1611.0,"y":1080.0}],"radius":0.0,"height":66.0,"width":118.0,"shape":"rect"},"elementType":"AbstractTask","properties":[]},{"id":"89fea6ce-3293-435b-849f-7ae4b9c4d047","name":"Gateway","elementImage":"files\\bpmnElements\\ExclusiveGateway.png","imageBounds":{"points":[{"x":1650.0,"y":1260.0}],"radius":0.0,"height":40.0,"width":40.0,"shape":"poly"},"elementType":"ExclusiveGateway","properties":[],"pageElements":[{"name":"DIa do evento","elementType":"SequenceFlow","properties":[]}]},{"id":"b8457e35-4107-4005-994e-23d85d41c19b","name":"Recepcionar e auxiliar  participantes ","elementImage":"files\\bpmnElements\\AbstractTask.png","imageBounds":{"points":[{"x":1940.66675,"y":1351.5}],"radius":0.0,"height":77.0,"width":105.0,"shape":"rect"},"elementType":"AbstractTask","properties":[]},{"id":"046d0109-ed4a-40a2-a883-e3212c46d4b6","name":"Event","elementImage":"files\\bpmnElements\\ParallelMultipleIntermediate.png","imageBounds":{"points":[{"x":2100.0,"y":1375.0}],"radius":15.0,"height":30.0,"width":30.0,"shape":"circle"},"elementType":"ParallelMultipleIntermediate"},{"id":"20e77287-c8e8-4d3c-a121-3cc9188b440e","name":"Gravar evento e produzir medias (fotos, vídeos, prints etc)","elementImage":"files\\bpmnElements\\AbstractTask.png","imageBounds":{"points":[{"x":2200.0,"y":1420.0}],"radius":0.0,"height":68.0,"width":101.0,"shape":"rect"},"elementType":"AbstractTask","properties":[]},{"id":"9e2ae936-06d1-457c-b572-79ed3616c806","name":"Gateway","elementImage":"files\\bpmnElements\\ExclusiveGateway.png","imageBounds":{"points":[{"x":2600.0,"y":1379.5}],"radius":0.0,"height":40.0,"width":40.0,"shape":"poly"},"elementType":"ExclusiveGateway","properties":[],"pageElements":[{"name":"Fechar o evento no GDSC Community","elementType":"SequenceFlow","properties":[]}]},{"id":"977ea307-b61e-42f4-9ae7-c24f7583915d","name":"Fechar o evento no GDSC Community","elementImage":"files\\bpmnElements\\AbstractTask.png","imageBounds":{"points":[{"x":2680.0,"y":1363.5}],"radius":0.0,"height":72.0,"width":100.0,"shape":"rect"},"elementType":"AbstractTask","properties":[]},{"id":"465b5f33-4921-44ff-8e08-d8c1798df62e","name":"Gerar lista de participantes","elementImage":"files\\bpmnElements\\AbstractTask.png","imageBounds":{"points":[{"x":2820.0,"y":1366.5}],"radius":0.0,"height":66.0,"width":107.0,"shape":"rect"},"elementType":"AbstractTask","properties":[]},{"id":"0e9800a7-3fe8-44ce-ad63-b101298927f2","name":"Confeccionar certificados (se cabível) e/ou declarações de participação","elementImage":"files\\bpmnElements\\AbstractTask.png","imageBounds":{"points":[{"x":2967.0,"y":1360.0}],"radius":0.0,"height":79.0,"width":133.0,"shape":"rect"},"elementType":"AbstractTask","properties":[]},{"id":"b1d8159d-0005-4922-82f7-08068b007ca0","name":"Enviar formulário de \"Declaração de Participação\" periodicamente","elementImage":"files\\bpmnElements\\AbstractTask.png","imageBounds":{"points":[{"x":2380.0,"y":1420.0}],"radius":0.0,"height":69.0,"width":101.0,"shape":"rect"},"elementType":"AbstractTask","properties":[]},{"id":"8b1e8711-cfee-4f82-9500-7b924d607190","name":"Registar eventos na planilha","elementImage":"files\\bpmnElements\\AbstractTask.png","imageBounds":{"points":[{"x":640.0,"y":356.5}],"radius":0.0,"height":60.0,"width":90.0,"shape":"rect"},"elementType":"AbstractTask","properties":[]},{"id":"50fadbe8-8615-431b-837b-29fa80b49442","name":"É online?","elementImage":"files\\bpmnElements\\ExclusiveGateway.png","imageBounds":{"points":[{"x":760.0,"y":366.5}],"radius":0.0,"height":40.0,"width":40.0,"shape":"poly"},"elementType":"ExclusiveGateway","properties":[],"pageElements":[{"name":"Sim","elementType":"SequenceFlow","properties":[]},{"name":"não","elementType":"SequenceFlow","properties":[]}]},{"id":"84b7a6e5-8db5-4190-8dd3-00b094716081","name":"Evento encerrado","elementImage":"files\\bpmnElements\\NoneEnd.png","imageBounds":{"points":[{"x":3300.0,"y":1384.5}],"radius":15.0,"height":30.0,"width":30.0,"shape":"circle"},"elementType":"NoneEnd"},{"id":"807d06bb-0dfc-4076-8773-bcdb30be0379","name":"Gateway","elementImage":"files\\bpmnElements\\ExclusiveGateway.png","imageBounds":{"points":[{"x":1040.0,"y":366.5}],"radius":0.0,"height":40.0,"width":40.0,"shape":"poly"},"elementType":"ExclusiveGateway","properties":[],"pageElements":[{"name":"Escolher palestrante","elementType":"SequenceFlow","properties":[]}]},{"id":"c948556f-343b-4bba-8450-3244072eb73e","name":"Event","elementImage":"files\\bpmnElements\\ParallelMultipleIntermediate.png","imageBounds":{"points":[{"x":1375.0,"y":620.0}],"radius":15.0,"height":30.0,"width":30.0,"shape":"circle"},"elementType":"ParallelMultipleIntermediate"},{"id":"f056d9ef-e804-4aa4-80cc-996dbf0a7e70","name":"Adicionar demais informações na planilha","elementImage":"files\\bpmnElements\\AbstractTask.png","imageBounds":{"points":[{"x":3140.0,"y":1366.5}],"radius":0.0,"height":66.0,"width":118.0,"shape":"rect"},"elementType":"AbstractTask","properties":[]},{"id":"c2959464-d677-49df-a8b4-abf7dfd8b450","name":"Organização inicial","elementImage":"files\\bpmnElements\\Lane.png","imageBounds":{"points":[{"x":70.0,"y":240.0}],"radius":0.0,"height":515.0,"width":30.0,"shape":"rect"},"elementType":"Lane"},{"id":"e1af7d50-044c-46cb-b8a3-2e258e782535","name":"Pré-evento","elementImage":"files\\bpmnElements\\Lane.png","imageBounds":{"points":[{"x":70.0,"y":755.0}],"radius":0.0,"height":457.0,"width":30.0,"shape":"rect"},"elementType":"Lane"},{"id":"52b07a4e-0b62-4ce0-aa86-2274d84c365d","name":"Durante e pós-evento","elementImage":"files\\bpmnElements\\Lane.png","imageBounds":{"points":[{"x":70.0,"y":1212.0}],"radius":0.0,"height":363.0,"width":30.0,"shape":"rect"},"elementType":"Lane"}]}]}],"texts":{"tableOfContents":"Índice","pageNumber":"Página","pageNumberLabelOf":"de","version":"Versão","author":"Autor","description":"Descrição","mainPool":"Processo principal","mainPoolDescription":"Processo principal Descrição","processDiagrams":"Processar os Diagramas","processElements":"Elementos do processo","elements":"Elementos do processo","defaultElementName":"Elemento","performers":"Executantes","connectors":"Conectores","connector":"Conector","home":"Principal","search":"Pesquisar","goToParentProcess":"<< Ir para Matriz","visitBizagi":"Visite bizagi.com","contains":"Contém {0} subprocessos","showAll":"Show all","fullScreen":"Tela inteira","zoomIn":"Ampliar","zoomOut":"Reduzir","close":"Fechar","menu":"Menu: ","errorPage":"Erro ao visualizar a página","process":"Proceso","subProcess":"Subprocessos publicados","contain":"Contém","checkAttributes":"Ver atributos","checkOverview":"Ver resumo","unavailableResource":"O recurso não está disponível","localResource":"O recurso pode ser acessado localmente","performer":"Executor","linktoimage":"Link para a  imagem","presentationAction":"Ações de apresentação","searchGlobal":"Busca todos","searchLocal":"Busca neste processo","searchResults":"Nenhum resultado encontrado","titlePage":"Start","emptyElement":"Este elemento ainda não foi documentado","unsupported":"Seu navegador não suporta conteúdo exibido por esta página. <br> Recomendamos que você atualizar o seu navegador.","details":"Detalhes","expand":"Expandir","mainPoolProperties":"Propriedades do Processo principal","cannotVisualize":"The page cannot be displayed","resourceNotFound":"The requested resource was not found:","applyTheme":"Applying new theme"},"searchMap":[{"containerId":"a18e822c-980b-4733-bf18-c129ccd2122c","containerName":"FLUXOGRAMA DO PROCESSO DE ORGANIZAÇÃO DE EVENTOS","isSubprocess":false,"elements":[{"id":"817bc4ca-ffaa-4745-b063-ad1da32bb218"},{"id":"806c10ba-ada0-41f9-a176-27f877548cc6"},{"id":"63637863-3aeb-4244-8df0-c6cd756336bf","value":"Organização de Eventos"},{"id":"c2959464-d677-49df-a8b4-abf7dfd8b450","value":"Organização inicial"},{"id":"e1af7d50-044c-46cb-b8a3-2e258e782535","value":"Pré-evento"},{"id":"52b07a4e-0b62-4ce0-aa86-2274d84c365d","value":"Durante e pós-evento"},{"id":"47df1e19-601d-4ef3-90b1-ff47ab14fcf0","value":"Início "},{"id":"1e81309f-aa74-4dc2-bc64-4a7715f7cd66","value":"Palestrante confirmou?"},{"id":"3a34ce15-f2b8-4ef5-a41f-cd822f493618","value":"Criar artes de divulgação"},{"id":"72ef1980-003a-4123-aabb-c78db7c5a618","value":"Gerar contéudo "},{"id":"d2af781b-8e4f-45ee-91cc-b02b6366bad0","value":"Fazer a divulgação nas redes sociais "},{"id":"84940166-02a5-43b1-a0c8-54ff68b21c77","value":"DIa do evento"},{"id":"218f1a85-8564-4cc2-838a-c2329342e110","value":"Testar com o palestrante: apresentação (se houver slide) e som.\u2028"},{"id":"c8029953-aebd-4dc1-900e-375bc9f9cdca","value":"Abertura do evento"},{"id":"924a9cce-34ed-4072-aa1b-41fb433a086e","value":"Finalizar evento"},{"id":"415551f6-a8f5-4c26-bdcf-3e80b6ecb0d7","value":"Escolher palestrante"},{"id":"bafd64de-f54f-4bec-9e07-d5a30dd64f11","value":"Definir temática e possíveis datas"},{"id":"4c6b3754-e87e-4f2c-8338-1fa1d308fafa","value":"Analisar respostas \u2028do formulário \"Declaração de participação\" de eventos anteriores e formulário de \"Palestre no GDSC UFG\""},{"id":"4eff2117-6ea3-4d76-b465-3bd18b9b0b28","value":"Editar formulário \"Declaração de Participação\" ou fazer formulário para emissão de certificado"},{"id":"a938959f-fd64-4fbc-ad83-974b25f81ffc","value":"Entrar em contato com a pessoa palestrante (informar data, horário e assunto)  "},{"id":"58011b2b-63d2-4039-a728-7692becf0f65","value":"Definir se será pelo canal do INF ou transmissão própria "},{"id":"21ccdcb6-0272-46d1-acbc-b7c113a00b72","value":"Definir se o evento será online ou presencial"},{"id":"46405d63-0796-463f-a940-5814d427ab43","value":"Agendar sala/auditório"},{"id":"6f59f099-8288-4a2c-a72a-13d2b930b317","value":"Enviar informações sobre a transmissão ou o local presencial, solicitar mini bio e uma foto para a arte"},{"id":"169f1e46-ff3d-496f-89b7-e687b40bc126","value":"Pré-evento"},{"id":"c5bd312d-2ffa-437b-976f-a7a53c93a122","value":"Adicionar informações no GDSC Community"},{"id":"8d897176-1707-469b-b893-ecc185b1deb0","value":""},{"id":"52b370c1-5780-4036-a98a-9ae37d5d3410","value":"Confirmar com palestrante se está \"tudo okay\" para a palestra e solicitar autorização de imagem para gravação"},{"id":"5ff35ba7-e36f-42e5-9052-3108910df475","value":"Definir quem irá realizar a mediação do evento"},{"id":"89fea6ce-3293-435b-849f-7ae4b9c4d047","value":""},{"id":"b8457e35-4107-4005-994e-23d85d41c19b","value":"Recepcionar e auxiliar  participantes "},{"id":"046d0109-ed4a-40a2-a883-e3212c46d4b6","value":""},{"id":"20e77287-c8e8-4d3c-a121-3cc9188b440e","value":"Gravar evento e produzir medias (fotos, vídeos, prints etc)"},{"id":"9e2ae936-06d1-457c-b572-79ed3616c806","value":""},{"id":"977ea307-b61e-42f4-9ae7-c24f7583915d","value":"Fechar o evento no GDSC Community"},{"id":"465b5f33-4921-44ff-8e08-d8c1798df62e","value":"Gerar lista de participantes"},{"id":"0e9800a7-3fe8-44ce-ad63-b101298927f2","value":"Confeccionar certificados (se cabível) e/ou declarações de participação"},{"id":"b1d8159d-0005-4922-82f7-08068b007ca0","value":"Enviar formulário de \"Declaração de Participação\" periodicamente"},{"id":"8b1e8711-cfee-4f82-9500-7b924d607190","value":"Registar eventos na planilha"},{"id":"50fadbe8-8615-431b-837b-29fa80b49442","value":"É online?"},{"id":"84b7a6e5-8db5-4190-8dd3-00b094716081","value":"Evento encerrado"},{"id":"807d06bb-0dfc-4076-8773-bcdb30be0379","value":""},{"id":"c948556f-343b-4bba-8450-3244072eb73e","value":""},{"id":"f056d9ef-e804-4aa4-80cc-996dbf0a7e70","value":"Adicionar demais informações na planilha"}]}]}
